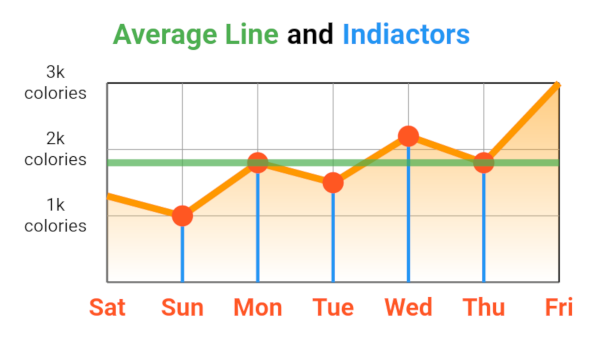
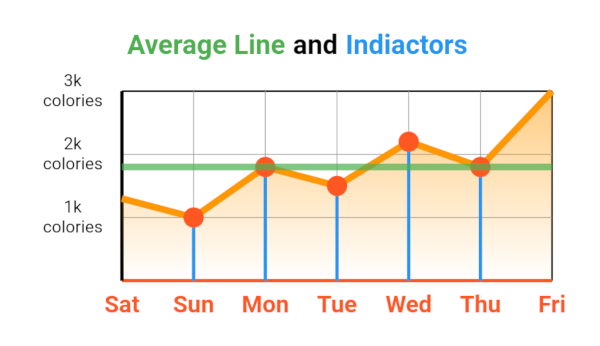
added getDrawingHorizontalGridLine, getDrawingVerticalGridLine to determine how (color, strokeWidth) the grid lines should be drawn with the given value on FlGridLine

Changed region(s): [[0.03, 0.1734, 0.96, 0.9249], [0.18, 0.0578, 0.78, 0.1734]]

diff --git a/lib/src/chart/base/axis_chart/axis_chart_painter.dart b/lib/src/chart/base/axis_chart/axis_chart_painter.dart
@@ -34,12 +34,15 @@ abstract class AxisChartPainter<D extends AxisChartData> extends BaseChartPainte
     final Size usableViewSize = getChartUsableDrawSize(viewSize);
     // Show Vertical Grid
     if (data.gridData.drawVerticalGrid) {
-      gridPaint.color = data.gridData.verticalGridColor;
-      gridPaint.strokeWidth = data.gridData.verticalGridLineWidth;
 
       double verticalSeek = data.minY;
       while (verticalSeek < data.maxY) {
         if (data.gridData.checkToShowVerticalGrid(verticalSeek)) {
+
+          final FlLine flLineStyle = data.gridData.getDrawingVerticalGridLine(verticalSeek);
+          gridPaint.color = flLineStyle.color;
+          gridPaint.strokeWidth = flLineStyle.strokeWidth;
+
           final double bothY = getPixelY(verticalSeek, usableViewSize);
           final double x1 = 0 + getLeftOffsetDrawSize();
           final double y1 = bothY + getTopOffsetDrawSize();
@@ -57,12 +60,15 @@ abstract class AxisChartPainter<D extends AxisChartData> extends BaseChartPainte
 
     // Show Horizontal Grid
     if (data.gridData.drawHorizontalGrid) {
-      gridPaint.color = data.gridData.horizontalGridColor;
-      gridPaint.strokeWidth = data.gridData.horizontalGridLineWidth;
 
       double horizontalSeek = data.minX;
       while (horizontalSeek < data.maxX) {
         if (data.gridData.checkToShowHorizontalGrid(horizontalSeek)) {
+
+          final FlLine flLine = data.gridData.getDrawingHorizontalGridLine(horizontalSeek);
+          gridPaint.color = flLine.color;
+          gridPaint.strokeWidth = flLine.strokeWidth;
+
           final double bothX = getPixelX(horizontalSeek, usableViewSize);
           final double x1 = bothX;
           final double y1 = 0 + getTopOffsetDrawSize();

diff --git a/lib/src/chart/base/axis_chart/axis_chart_data.dart b/lib/src/chart/base/axis_chart/axis_chart_data.dart
@@ -52,6 +52,17 @@ bool showAllGrids(double value) {
   return true;
 }
 
+
+/// we use this typedef to determine how draw the grid line at specific position
+typedef GetDrawingGridLine = FlLine Function(double value);
+
+FlLine defaultGridLine(double value) {
+  return const FlLine(
+    color: Colors.grey,
+    strokeWidth: 0.5,
+  );
+}
+
 /// This class is responsible to hold grid data,
 /// the field names are descriptive and you can find out what they do.
 class FlGridData {
@@ -60,15 +71,13 @@ class FlGridData {
   // Horizontal
   final bool drawHorizontalGrid;
   final double horizontalInterval;
-  final Color horizontalGridColor;
-  final double horizontalGridLineWidth;
+  final GetDrawingGridLine getDrawingHorizontalGridLine;
   final CheckToShowGrid checkToShowHorizontalGrid;
 
   // Vertical
   final bool drawVerticalGrid;
   final double verticalInterval;
-  final Color verticalGridColor;
-  final double verticalGridLineWidth;
+  final GetDrawingGridLine getDrawingVerticalGridLine;
   final CheckToShowGrid checkToShowVerticalGrid;
 
   const FlGridData({
@@ -76,15 +85,13 @@ class FlGridData {
     // Horizontal
     this.drawHorizontalGrid = false,
     this.horizontalInterval = 1.0,
-    this.horizontalGridColor = Colors.grey,
-    this.horizontalGridLineWidth = 0.5,
+    this.getDrawingHorizontalGridLine = defaultGridLine,
     this.checkToShowHorizontalGrid = showAllGrids,
 
     //Vertical
     this.drawVerticalGrid = true,
     this.verticalInterval = 1.0,
-    this.verticalGridColor = Colors.grey,
-    this.verticalGridLineWidth = 0.5,
+    this.getDrawingVerticalGridLine = defaultGridLine,
     this.checkToShowVerticalGrid = showAllGrids,
   });
 }

diff --git a/example/lib/line_chart/samples/line_chart_sample3.dart b/example/lib/line_chart/samples/line_chart_sample3.dart
@@ -92,6 +92,32 @@ class LineChartSample3 extends StatelessWidget {
                   show: true,
                   drawHorizontalGrid: true,
                   drawVerticalGrid: true,
+                  getDrawingVerticalGridLine: (value) {
+                    if (value == 0) {
+                      return const FlLine(
+                        color: Colors.deepOrange,
+                        strokeWidth: 2,
+                      );
+                    } else {
+                      return const FlLine(
+                        color: Colors.grey,
+                        strokeWidth: 0.5,
+                      );
+                    }
+                  },
+                  getDrawingHorizontalGridLine: (value) {
+                    if (value == 0) {
+                      return const FlLine(
+                        color: Colors.black,
+                        strokeWidth: 2,
+                      );
+                    } else {
+                      return const FlLine(
+                        color: Colors.grey,
+                        strokeWidth: 0.5,
+                      );
+                    }
+                  },
                 ),
                 titlesData: FlTitlesData(
                   show: true,

diff --git a/example/lib/line_chart/samples/line_chart_sample2.dart b/example/lib/line_chart/samples/line_chart_sample2.dart
@@ -24,10 +24,18 @@ class LineChartSample2 extends StatelessWidget {
                 gridData: FlGridData(
                   show: true,
                   drawHorizontalGrid: true,
-                  verticalGridColor: Color(0xff37434d),
-                  verticalGridLineWidth: 1,
-                  horizontalGridColor: Color(0xff37434d),
-                  horizontalGridLineWidth: 1,
+                  getDrawingVerticalGridLine: (value) {
+                    return const FlLine(
+                      color: Color(0xff37434d),
+                      strokeWidth:  1,
+                    );
+                  },
+                  getDrawingHorizontalGridLine: (value) {
+                    return const FlLine(
+                      color: Color(0xff37434d),
+                      strokeWidth: 1,
+                    );
+                  },
                 ),
                 titlesData: FlTitlesData(
                   show: true,

diff --git a/repo_files/documentations/base_chart.md b/repo_files/documentations/base_chart.md
@@ -37,13 +37,11 @@
 |show|determines to show or hide the background grid data|true|
 |drawHorizontalGrid|determines to show or hide the horizontal grid lines|false|
 |horizontalInterval|interval space of grid|1.0|
-|horizontalGridColor|colors the horizontal grid lines|Colors.grey|
-|horizontalGridLineWidth|stroke width of horizontal grid lines |0.5|
-|checkToShowHorizontalGrid|a function to check whether to show or hide the horizontal grid by givingv the related axis value |showAllGrids|
+|getDrawingHorizontalGridLine|a function to get the line style of each grid line by giving the related axis value|defaultGridLine|
+|checkToShowHorizontalGrid|a function to check whether to show or hide the horizontal grid by giving the related axis value |showAllGrids|
 |drawVerticalGrid|determines to show or hide the vertical grid lines|false|
 |verticalInterval|interval space of grid|1.0|
-|verticalGridColor|colors the vertical grid lines|Colors.grey|
-|verticalGridLineWidth|stroke width of vertical grid lines |0.5|
+|getDrawingVerticalGridLine|a function to get the line style of each grid line by giving the related axis value|defaultGridLine|
 |checkToShowVerticalGrid|a function to determine whether to show or hide the vertical grid by giving the related axis value |showAllGrids|
 
 
